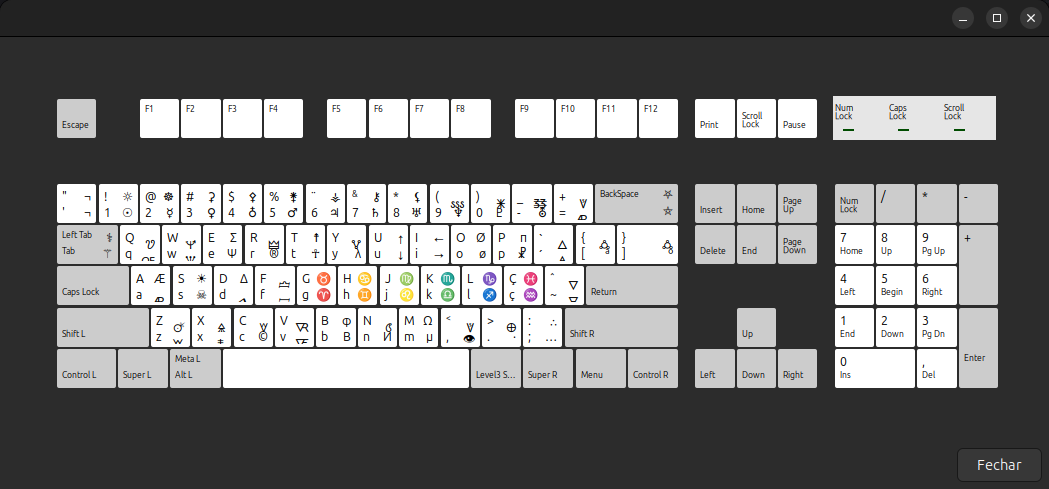
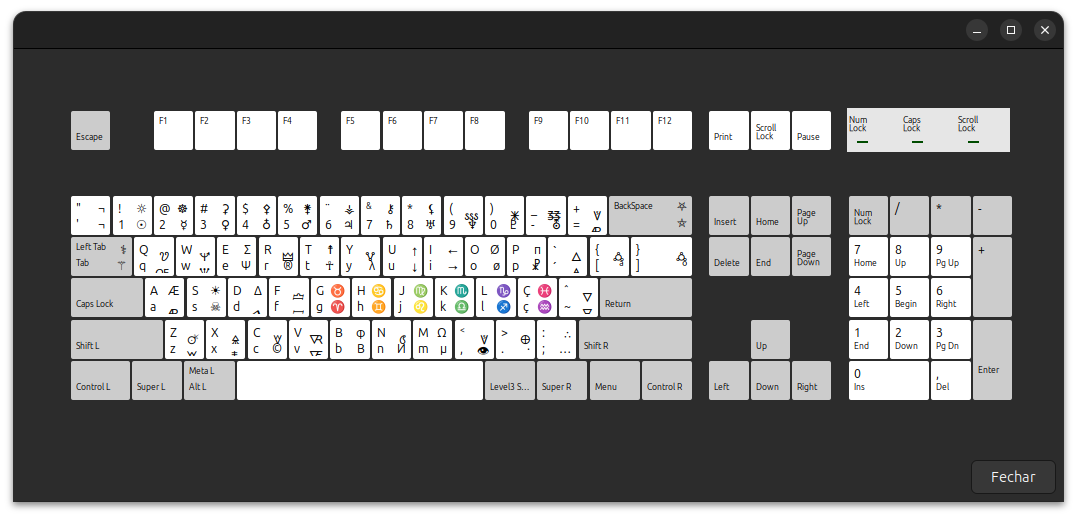
- Adjusting Makefile; - Updating and fixing screenshots; - README updated;

Changed region(s): [[0.0, 0.0, 1.0, 1.0]]

diff --git a/README.md b/README.md
@@ -1,24 +1,22 @@
-# ![V·I·T·R·I·O·L][vitriol.png] <img align="right" src="https://img.shields.io/github/v/tag/jmurowaniecki/vitriol?sort=semver&style=flat-square" />
+# ![V·I·T·R·I·O·L][vitriol.png]
+<img align="right" src="https://img.shields.io/github/v/tag/jmurowaniecki/vitriol?sort=semver&style=flat-square" />
 
-![Mapped key layout][keyboard.png]
 <!-- by Ioxn Ioannes Vicarius Umbrae. -->
 
+**V.I.T.R.I.O.L.¹** é um mapeamento simbólico para layouts de teclado baseados em X11 para todos aqueles que precisam de caracteres com simbologia astronômica, astrológica, alquímica, matemática e/ou de gênero diverso - **simbologia Juvélica²**.
 
-**V.I.T.R.I.O.L.¹** is a symbolic mapping for X11-based keyboard layouts for all those who need characters with astronomical, astrological, alchemical, mathematical and/or gender-diverse symbology and also **Juvelic symbology²**.
+Esta biblioteca visa contribuir com recursos de fácil e rápido acesso para estudos e publicações, não apenas para os casos mencionados acima. Se você precisar de um mapeamento específico e/ou tiver alguma ideia, dúvida, crítica ou sugestão, sinta-se à vontade para entrar em contato conosco e/ou abrir uma issue, pull request ou até mesmo fazer um fork deste projeto.
 
-This library aims to contribute with easy and quick access resources for studies and publications, not only for the cases mentioned above.
+<small>
+  ¹ : Significa literalmente <i><b>"Visita Interiora Terrae, Rectificando, Invenies Occultum Lapidem."</b> - visite o centro da Terra, retificando-se, você encontrará a pedra escondida</i>.
 
-If you need a specific mapping and/or have any ideas, questions, criticisms or suggestions, feel free to contact us and/or open an issue, pull request or even fork this project.
-
-> ¹ : It literally means _**"Visita Interiora Terrae, Rectificando, Invenies Occultum Lapidem."** - visit the center of the Earth, by rectifying yourself, you will find the hidden stone_.
-
-> ² : It's not complete (yet), but it's a work-in-progress.
-
+  ² : Não está completo (ainda), mas é um trabalho em andamento.
+</small>
 
 
-## Requirements
 
-Make sure your system has the `unicode` package (from the `utils` section) and `ttf-ancient-fonts` and Python v3 installed and up to date.
+## Requisitos
+Certifique-se de que seu sistema tenha o pacote `unicode` (da seção `utils`), `ttf-ancient-fonts` e Python v3 instalados e atualizados.
 
 ```sh
 # Ubuntu
@@ -33,107 +31,68 @@ apk add unicode-character-database python3
 ```
 
 
-## Installation
+## Instalação
 
-The automated installation process can be performed using the `make install` commands or by running the `install.py` file.
-
-
-## Manual Installation
-
-Add the contents of the `evdev.lst` file to the `!variant` section of the `/usr/share/X11/xkb/rules/evdev.lst` file, and to `evdev.xml` for its corresponding `variantList` in the **BR** section of the `/usr/share/X11/xkb/rules/evdev.xml` file.
-
-Then finally add the `vitriol.xkb` file to your symbols file `/usr/share/X11/xkb/symbols/br`.
-
-After performing the installation you need to restart your X11 session (log out).
+O processo de instalação automatizada pode ser executado usando os comandos `make install` ou executando o arquivo `install.py`. Certifique-se de ter os privilégios para alterar os arquivos de sistema (ou utilizar `sudo` para esse fim).
 
 
-## Getting Started
+## Instalação Manual
 
-1. Perform the installation using the steps in the **Makefile**: `make install`;
-2. Open your system settings and go to **`Language / Keyboard settings`**;
-3. Select the desired **Portuguese (Brazil, Esoteric)** mapping;
-4. To test, press **` Alt Gr. `** + **` X `** to print the character ' **` 🜏 `** '.
+Adicione o conteúdo do arquivo `evdev.lst` à seção `!variant` do arquivo `/usr/share/X11/xkb/rules/evdev.lst` e ao arquivo `evdev.xml` para a sua `variantList` correspondente na seção **BR** do arquivo `/usr/share/X11/xkb/rules/evdev.xml`.
 
-> Be aware that any system updates will overwrite your settings, and you may need to repeat the installation process after updating the system.
+Por fim, adicione o arquivo `install/symbols/br.xkb` (ou algum dos layouts específicos) ao seu arquivo de símbolos `/usr/share/X11/xkb/symbols/br`.
 
-## Mappings
+Após realizar a instalação, você **precisa** reiniciar sua sessão X11.
 
-Due to the constant need to use esoteric, astrological and Juvelic symbols, as well as the extension of the symbols in use, it became necessary to subdivide into individual mappings to meet the symbolic needs of the work carried out.
 
-### Esoteric
+## Primeiros Passos
 
-  Code  |  Key           |  Shift + Key      |  AltGR + Key  |  AltGr + Shift + Key  | Obs.
---------|:--------------:|:-----------------:|:-------------:|:---------------------:|------
-\<AE01> | `1`            | `exclamation`     | `☉`           | `☼`                   | #001
-\<AE02> | `2`            | `at`              | `☿`           | `☸`                   | #001
-\<AE03> | `3`            | `numbersign`      | `♀`           | `⚳`                   | #001
-\<AE04> | `4`            | `dollar`          | `♁`           | `⚴`                   | #001
-\<AE05> | `5`            | `percent`         | `♂`           | `⚵`                   | #001
-\<AE06> | `6`            | `dead_diaeresis`  | `♃`           | `⚶`                   | #001
-\<AE07> | `7`            | `ampersand`       | `♄`           | `⚷`                   | #001
-\<AE08> | `8`            | `asterisk`        | `♅`           | `⚸`                   | #001
-\<AE09> | `9`            | `parenleft`       | `♆`           | `🝜`                  | #001
-\<AE10> | `0`            | `parenright`      | `♇`           | `🜹`                   | #001
-\<AE11> | `minus`        | `underscore`      | `⛢`           | `🜓`                  | #001
-\<AE12> | `equal`        | `plus`            | `🜇`          | `🜈`                   |
-\<AD01> | `q`            | `Q`               | `🜀`          | `🝣`                   |
-\<AD02> | `w`            | `W`               | `🝢`          | `🝤`                   |
-\<AD03> | `e`            | `E`               | `Ψ`           | `Σ`                   |
-\<AD04> | `r`            | `R`               | `®`           | `🜲`                   | # 001
-\<AD05> | `t`            | `T`               | `☥`           | `☨`                   |
-\<AD06> | `y`            | `Y`               | `λ`           | `🜉`                   |
-\<AD08> | `u`            | `U`               | `↓`           | `↑`                   |
-\<AD08> | `i`            | `I`               | `→`           | `←`                   |
-\<AD10> | `o`            | `O`               | `ø`           | `𐍈`                   |
-\<AD10> | `p`            | `P`               | `☧`           | `π`                   | # 001
-\<AD11> | `dead_acute`   | `dead_grave`      | `🜁`          | `🜂`                   |
-\<AD12> | `bracketleft`  | `braceleft`       | `ª`           | `🜛`                   | # 001
-\<AC01> | `a`            | `A`               | `🜇`          | `Æ`                   |
-\<AC02> | `s`            | `S`               | `☠`           | `☀`                   |
-\<AC03> | `d`            | `D`               | `🝠`          | `Δ`                   |
-\<AC04> | `f`            | `F`               | `🝟`          | `🝞`                   |
-\<AC05> | `g`            | `G`               | `♈`           | `♉`                   |
-\<AC06> | `h`            | `H`               | `♊`           | `♋`                   |
-\<AC07> | `j`            | `j`               | `♌`           | `♍`                   |
-\<AC08> | `k`            | `K`               | `♎`           | `♏`                   |
-\<AC09> | `l`            | `L`               | `♐`           | `♑`                   |
-\<AC10> | `ccedilla`     | `Ccedilla`        | `♒`           | `♓`                   |
-\<AC11> | `dead_tilde`   | `dead_circumflex` | `🜃`          | `🜄`                   |
-\<AC12> | `bracketright` | `braceright`      | `º`           | `🜛`                   |
-\<AB01> | `z`            | `Z`               | `🝪`          | `🜚`                   |
-\<AB02> | `x`            | `X`               | `🜏`          | `🜎`                   |
-\<AB03> | `c`            | `C`               | `©`           | `🝧`                   | # 001
-\<AB04> | `v`            | `V`               | `🜅`          | `🜆`                  |
-\<AB05> | `b`            | `B`               | `Β`           | `φ`                   |
-\<AB06> | `n`            | `N`               | `И`           | `🝭`                   |
-\<AB07> | `m`            | `M`               | `µ`           | `Ω`                   |
-\<AB08> | `comma`        | `less`            | `👁`           | `🜈`                  |
-\<AB09> | `period`       | `greater`         | `·`           | `🜨`                   |
-\<AB10> | `semicolon`    | `colon`           | `…`           | `∴`                   |
-\<AB11> | `slash`        | `question`        | `🜔`           | `🜕`                  |
-\<LSGT> | `backslash`    | `bar`             | `🜩`           | `🜫`                   |
-\<BKSP> | `BackSpace`    | `BackSpace`       | `⛤`           | `⛧`                   |
-\<TAB>  | `Tab`          | `ISO_Left_Tab`    | `⚚`           | `⚕`                   |
+1. Execute a instalação seguindo os passos do **Makefile**: `make install`;
+2. Abra as configurações do sistema e vá em **`Idioma / Configurações de Teclado`**;
+3. Selecione o mapeamento **Português (Brasil, Esotérico)** desejado;
+4. Para testar, pressione **` Alt Gr. `** + **` X `** para imprimir o caractere ' **` 🜏 `** '.
 
-> If you are interested in custom and/or printed keys take a [look here][max-keyboard-url].
+> Esteja ciente de que qualquer atualização do sistema poderá substituir suas configurações e que talvez seja necessário repetir o processo de instalação após atualizar o sistema.
 
-> If you want to make a custom keyboard using Arduino [this can help you][diy-with-arduino].
+## Mapeamentos
 
-> Due to errors rendering the _Level 3_, _Super_ or _Meta_ characters using the `draw-key` program from [gkbd-keyboard-drawing](https://github.com/GNOME/libgnomekbd/blob/master/libgnomekbd/gkbd-keyboard-drawing.c) some keys and their values may have been rendered and positioned manually on the example keyboard.
+Devido à constante necessidade de utilização de símbolos esotéricos, astrológicos e juvélicos, bem como à extensão dos símbolos em uso, tornou-se necessário subdividir em mapeamentos individuais para atender às necessidades simbólicas do trabalho realizado.
 
-> [See the table of Juvelic terms - WIP](doc/TERMOS-JUVELICOS.md)
+### Layout Esotérico
+![Mapped key layout][kbd-vitriol-es]
 
-> The QWERTY layout was designed in the 19th century. Colemak is a modern alternative to the QWERTY and Dvorak layouts, designed for efficient and ergonomic touch typing in English. [Learn more about…](https://colemak.com/)
+### Layout Matemático
+![Mapped key layout][kbd-vitriol-ma]
 
-> [See more about the XKB protocol.](https://www.x.org/releases/X11R7.7/doc/kbproto/xkbproto.html)
+### Layout Juvélico
+![Mapped key layout][kbd-vitriol-ic]
 
-> Future reference https://shapecatcher.com/unicode/block/Gothic
+### Layout Astrológico
+![Mapped key layout][kbd-vitriol-as]
 
+
+> Se você estiver interessado em teclas personalizadas e/ou impressas, dê uma olhada em [veja aqui][max-keyboard-url].
+
+> Se você quiser criar um teclado personalizado usando Arduino [isso pode te ajudar][diy-with-arduino].
+
+> Devido a erros na renderização dos caracteres _Level 3_, _Super_ ou _Meta_ usando o programa `draw-key` do [gkbd-keyboard-drawing](https://github.com/GNOME/libgnomekbd/blob/master/libgnomekbd/gkbd-keyboard-drawing.c), algumas teclas e seus valores podem ter sido renderizados e posicionados manualmente no teclado de exemplo.
+
+> [Veja a tabela de termos Juvelic - WIP](doc/TERMOS-JUVELICOS.md)
+
+> O layout QWERTY foi projetado no século XIX. Colemak é uma alternativa moderna aos layouts QWERTY e Dvorak, projetada para digitação eficiente e ergonômica em inglês. [Saiba mais sobre…](https://colemak.com/)
+
+> [Saiba mais sobre o protocolo XKB.](https://www.x.org/releases/X11R7.7/doc/kbproto/xkbproto.html)
+
+> Referência futura: https://shapecatcher.com/unicode/block/Gothic
 [](ASSETS)
 
 [ico-version     ]: https://img.shields.io/github/v/tag/jmurowaniecki/vitriol?sort=semver&style=flat-square
-[vitriol.png     ]: ./doc/assets/vitriol.png
+[vitriol.png     ]: ./doc/assets/background.png
 [keyboard.png    ]: ./doc/assets/layout.png
+[kbd-vitriol-as  ]: ./doc/assets/layout-vitriolas.png
+[kbd-vitriol-es  ]: ./doc/assets/layout-vitrioles.png
+[kbd-vitriol-ic  ]: ./doc/assets/layout-vitriolic.png
+[kbd-vitriol-ma  ]: ./doc/assets/layout-vitriolma.png
 [max-keyboard-url]: https://www.maxkeyboard.com/
 [diy-with-arduino]: https://www.makeuseof.com/tag/make-custom-shortcut-buttons-arduino/
 [TODO            ]: https://img.shields.io/badge/atalho_de_teclas_-indefinido-violet?style=flat-square

diff --git a/doc/MAPPING-Esoteric.md b/doc/MAPPING-Esoteric.md
@@ -1,0 +1,57 @@
+### Esoteric
+
+![Mapped key layout][kbd-vitriol-es]
+[kbd-vitriol-es  ]: ./assets/layout-vitrioles.png
+
+  Code  |  Key           |  Shift + Key      |  AltGR + Key  |  AltGr + Shift + Key  | Obs.
+--------|:--------------:|:-----------------:|:-------------:|:---------------------:|------
+\<AE01> | `1`            | `exclamation`     | `☉`           | `☼`                   | #001
+\<AE02> | `2`            | `at`              | `☿`           | `☸`                   | #001
+\<AE03> | `3`            | `numbersign`      | `♀`           | `⚳`                   | #001
+\<AE04> | `4`            | `dollar`          | `♁`           | `⚴`                   | #001
+\<AE05> | `5`            | `percent`         | `♂`           | `⚵`                   | #001
+\<AE06> | `6`            | `dead_diaeresis`  | `♃`           | `⚶`                   | #001
+\<AE07> | `7`            | `ampersand`       | `♄`           | `⚷`                   | #001
+\<AE08> | `8`            | `asterisk`        | `♅`           | `⚸`                   | #001
+\<AE09> | `9`            | `parenleft`       | `♆`           | `🝜`                  | #001
+\<AE10> | `0`            | `parenright`      | `♇`           | `🜹`                   | #001
+\<AE11> | `minus`        | `underscore`      | `⛢`           | `🜓`                  | #001
+\<AE12> | `equal`        | `plus`            | `🜇`          | `🜈`                   |
+\<AD01> | `q`            | `Q`               | `🜀`          | `🝣`                   |
+\<AD02> | `w`            | `W`               | `🝢`          | `🝤`                   |
+\<AD03> | `e`            | `E`               | `Ψ`           | `Σ`                   |
+\<AD04> | `r`            | `R`               | `®`           | `🜲`                   | # 001
+\<AD05> | `t`            | `T`               | `☥`           | `☨`                   |
+\<AD06> | `y`            | `Y`               | `λ`           | `🜉`                   |
+\<AD08> | `u`            | `U`               | `↓`           | `↑`                   |
+\<AD08> | `i`            | `I`               | `→`           | `←`                   |
+\<AD10> | `o`            | `O`               | `ø`           | `𐍈`                   |
+\<AD10> | `p`            | `P`               | `☧`           | `π`                   | # 001
+\<AD11> | `dead_acute`   | `dead_grave`      | `🜁`          | `🜂`                   |
+\<AD12> | `bracketleft`  | `braceleft`       | `ª`           | `🜛`                   | # 001
+\<AC01> | `a`            | `A`               | `🜇`          | `Æ`                   |
+\<AC02> | `s`            | `S`               | `☠`           | `☀`                   |
+\<AC03> | `d`            | `D`               | `🝠`          | `Δ`                   |
+\<AC04> | `f`            | `F`               | `🝟`          | `🝞`                   |
+\<AC05> | `g`            | `G`               | `♈`           | `♉`                   |
+\<AC06> | `h`            | `H`               | `♊`           | `♋`                   |
+\<AC07> | `j`            | `j`               | `♌`           | `♍`                   |
+\<AC08> | `k`            | `K`               | `♎`           | `♏`                   |
+\<AC09> | `l`            | `L`               | `♐`           | `♑`                   |
+\<AC10> | `ccedilla`     | `Ccedilla`        | `♒`           | `♓`                   |
+\<AC11> | `dead_tilde`   | `dead_circumflex` | `🜃`          | `🜄`                   |
+\<AC12> | `bracketright` | `braceright`      | `º`           | `🜛`                   |
+\<AB01> | `z`            | `Z`               | `🝪`          | `🜚`                   |
+\<AB02> | `x`            | `X`               | `🜏`          | `🜎`                   |
+\<AB03> | `c`            | `C`               | `©`           | `🝧`                   | # 001
+\<AB04> | `v`            | `V`               | `🜅`          | `🜆`                  |
+\<AB05> | `b`            | `B`               | `Β`           | `φ`                   |
+\<AB06> | `n`            | `N`               | `И`           | `🝭`                   |
+\<AB07> | `m`            | `M`               | `µ`           | `Ω`                   |
+\<AB08> | `comma`        | `less`            | `👁`           | `🜈`                  |
+\<AB09> | `period`       | `greater`         | `·`           | `🜨`                   |
+\<AB10> | `semicolon`    | `colon`           | `…`           | `∴`                   |
+\<AB11> | `slash`        | `question`        | `🜔`           | `🜕`                  |
+\<LSGT> | `backslash`    | `bar`             | `🜩`           | `🜫`                   |
+\<BKSP> | `BackSpace`    | `BackSpace`       | `⛤`           | `⛧`                   |
+\<TAB>  | `Tab`          | `ISO_Left_Tab`    | `⚚`           | `⚕`                   |

diff --git a/RELEASE.md b/RELEASE.md
@@ -1,5 +1,13 @@
 # Release notes
 
+## 2025-05-28
+Screenshots for new layouts added.
+Changing README with new contents.
+
+## 2025-05-23
+Dividing and organizing layout sheets into the Astrology, Esoteric, Juvelic and Mathematical groups.
+Adapting the Makefile and install.py installation files for multiple layouts.
+
 ## 2025-02-12
 Rearranging mappings to approximate alchemical signs, states and elements and similar symbology.
 
